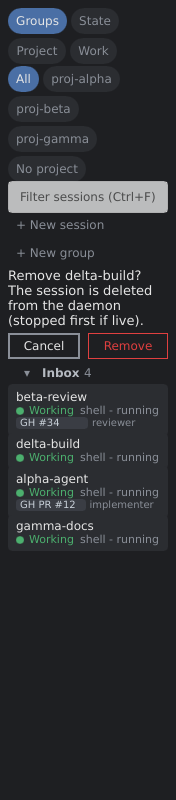
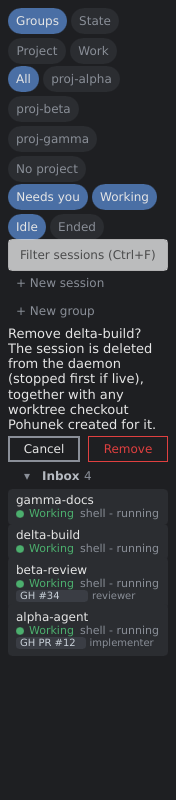
Report leftover worktrees after a remove and make confirmation arrows directional

diff --git a/crates/core/src/lifecycle.rs b/crates/core/src/lifecycle.rs
@@ -38,23 +38,28 @@ pub enum LifecycleError {
     Failed(String),
 }
 
-/// Sends one `session.stop` or `session.remove` for `session_id`.
+/// Sends one `session.stop` or `session.remove` for `session_id`. Returns the
+/// number of worktree checkouts a removal could not delete (they are no longer
+/// tracked by the daemon and need manual cleanup); zero for a stop.
 pub async fn run_lifecycle_action(
     daemon: &DaemonConfig,
     session_id: &str,
     action: LifecycleAction,
-) -> Result<(), LifecycleError> {
+) -> Result<u32, LifecycleError> {
     let socket = resolve_socket().map_err(|err| LifecycleError::Failed(err.to_string()))?;
     let mut client = connect_for_session_action(&socket, daemon)
         .await
         .map_err(|err| LifecycleError::Failed(err.to_string()))?;
     let id = SessionId(session_id.to_owned());
     let outcome = match action {
-        LifecycleAction::Stop => client.call::<SessionStop>(id).await.map(drop),
-        LifecycleAction::Remove => client.call::<SessionRemove>(id).await.map(drop),
+        LifecycleAction::Stop => client.call::<SessionStop>(id).await.map(|_| 0),
+        LifecycleAction::Remove => client
+            .call::<SessionRemove>(id)
+            .await
+            .map(|result| result.worktrees_failed),
     };
     match outcome {
-        Ok(()) => Ok(()),
+        Ok(worktrees_failed) => Ok(worktrees_failed),
         Err(ClientError::Protocol(err)) => {
             error!(code = %err.code, action = action.verb(), "session lifecycle action refused");
             Err(LifecycleError::Refused {

diff --git a/crates/app/src/main.rs b/crates/app/src/main.rs
@@ -742,6 +742,12 @@ fn lifecycle_outcome(
     runtime
         .block_on(run_lifecycle_action(daemon, session_id, action))
         .map_err(|err| format!("Cannot {verb} {session_id}: {err}"))
+        .and_then(|worktrees_failed| match worktrees_failed {
+            0 => Ok(()),
+            count => Err(format!(
+                "Removed {session_id}, but {count} worktree checkout(s) could not be deleted and need manual cleanup"
+            )),
+        })
 }
 
 fn attach_outcome(context: &AttachContext, key: &SessionKey, refusal: &str) -> Result<(), String> {

diff --git a/docs/architecture.md b/docs/architecture.md
@@ -213,8 +213,10 @@ session, an ended session (no Stop) or a session with an unresolved runtime
 (no Remove) gets no entry. Choosing one opens a confirmation in the sidebar
 that names the session and the consequence: stop ends the agent and keeps the
 session in the list as ended; remove deletes it from the daemon (stopped first
-if live). The confirmation starts on Cancel: Enter and Escape cancel, Tab or an
-arrow key moves the selection to the destructive button, and only then Enter
+if live) together with any worktree checkout Pohunek created for it. The
+confirmation starts on Cancel: Enter and Escape cancel, Tab or the
+Right arrow moves the selection to the destructive button (Left returns to
+Cancel), and only then Enter
 (or a click) sends one `session.stop` or `session.remove`.
 
 Removal uses `session.remove`, never `session.remove_accepting_unconfirmed`: a
@@ -224,7 +226,9 @@ refusal is shown as "Cannot remove <id>: <message>". Both calls run on a
 connection whose request timeout is `daemon.session_action_timeout_ms`,
 because they wait for the runtime to end and be swept. The row changes, and
 the layout store drops a removed session, when the daemon's session events
-arrive; a stop or remove error is shown in the window and nothing changes.
+arrive; a stop or remove error is shown in the window. A request that exceeded the
+timeout has an unknown outcome and may still complete in the daemon. A removal
+that could not delete worktree checkouts is reported with their count.
 Log lines carry the session id and the error code.
 
 ## Window placement
